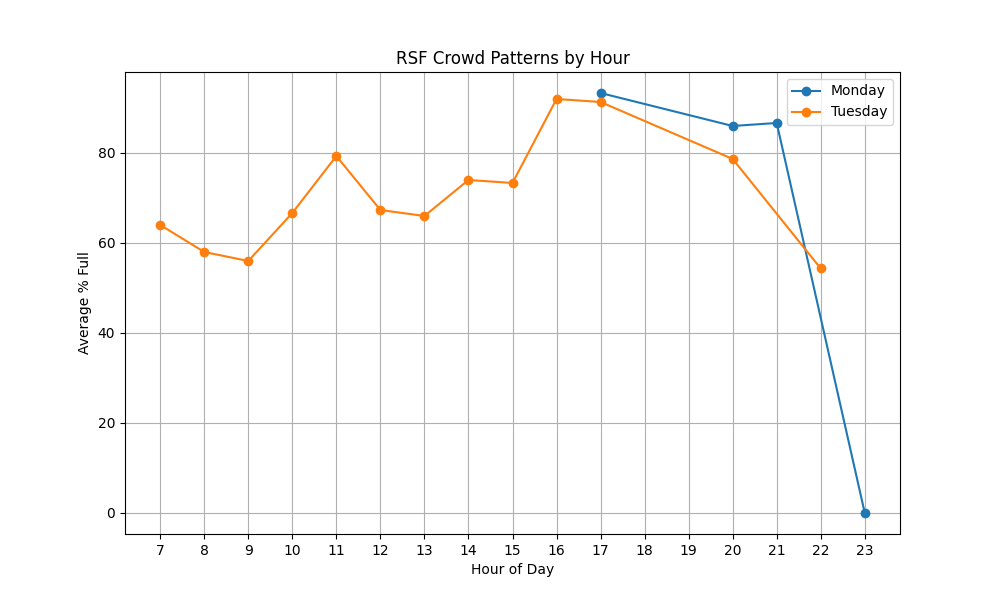
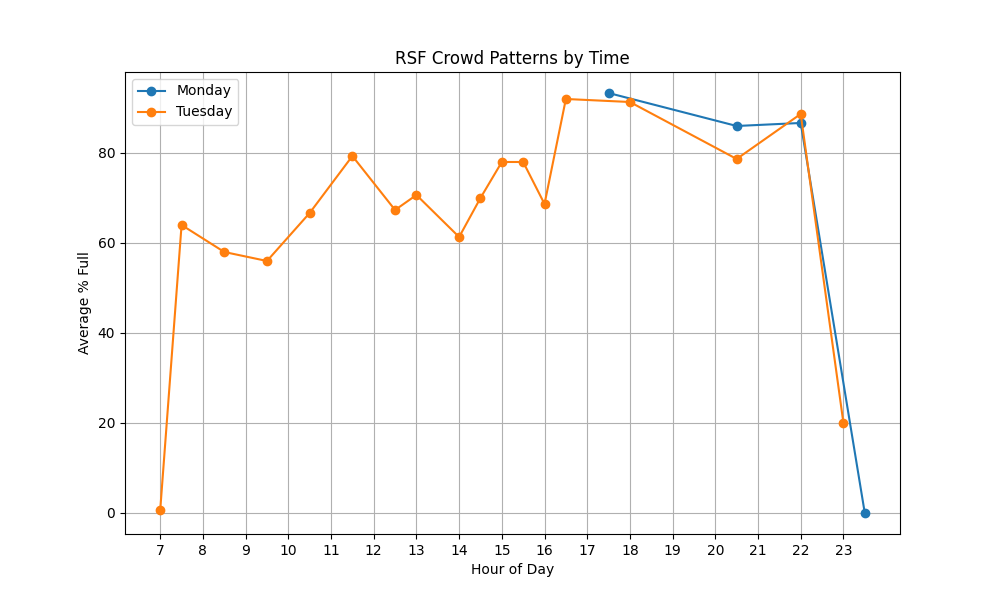
increase to every 30 minute on graph

diff --git a/make_graph.py b/make_graph.py
@@ -11,18 +11,21 @@ df = pd.read_csv("RSF_Dataset.csv")
 df["timestamp"] = pd.to_datetime(df["timestamp"])
 
 # Extract hour
-df["hour"] = df["timestamp"].dt.hour
+df["time_bin"] = df["timestamp"].dt.round("30min")
 
 # Keep only gym open hours
+df["hour"] = df["time_bin"].dt.hour
+df["minute"] = df["time_bin"].dt.minute
 df = df[(df["hour"] >= 7) & (df["hour"] <= 23)]
 
 
 # %%
 # Group data
-grouped = df.groupby(["weekday","hour"])["percent_full"].mean().reset_index()
+grouped = df.groupby(["weekday","hour","minute"])["percent_full"].mean().reset_index()
+
 
 # Sort days and hours
-grouped = grouped.sort_values(["weekday","hour"])
+grouped = grouped.sort_values(["weekday","hour","minute"])
 
 # Map weekday names
 day_map = {
@@ -42,11 +45,15 @@ plt.figure(figsize=(10,6))
 
 for day in sorted(grouped["weekday"].unique()):
     data = grouped[grouped["weekday"] == day]
-    plt.plot(data["hour"], data["percent_full"], marker="o", label=day_map[day])
+
+    # convert hour + minute into decimal time for plotting
+    x = data["hour"] + data["minute"]/60
+
+    plt.plot(x, data["percent_full"], marker="o", label=day_map[day])
 
 plt.xlabel("Hour of Day")
 plt.ylabel("Average % Full")
-plt.title("RSF Crowd Patterns by Hour")
+plt.title("RSF Crowd Patterns by Time")
 
 plt.xticks(range(7,24))
 plt.grid(True)
